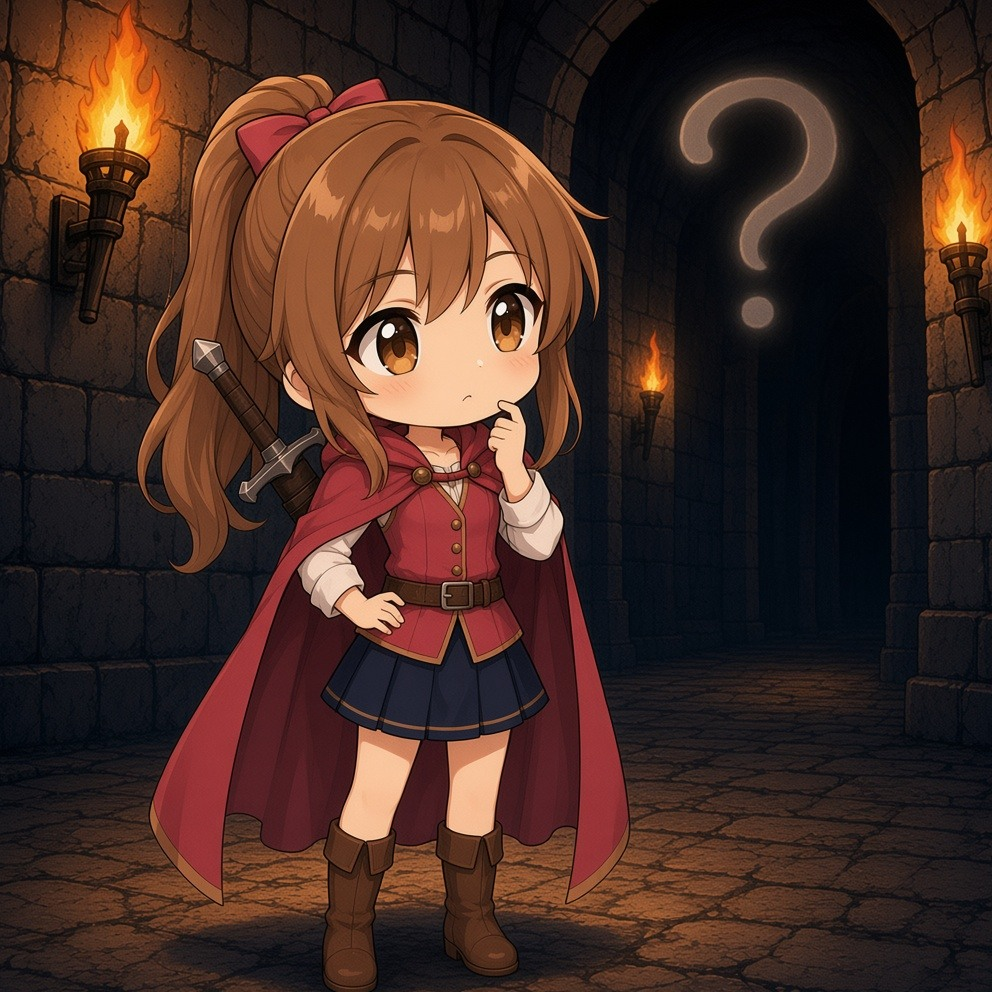
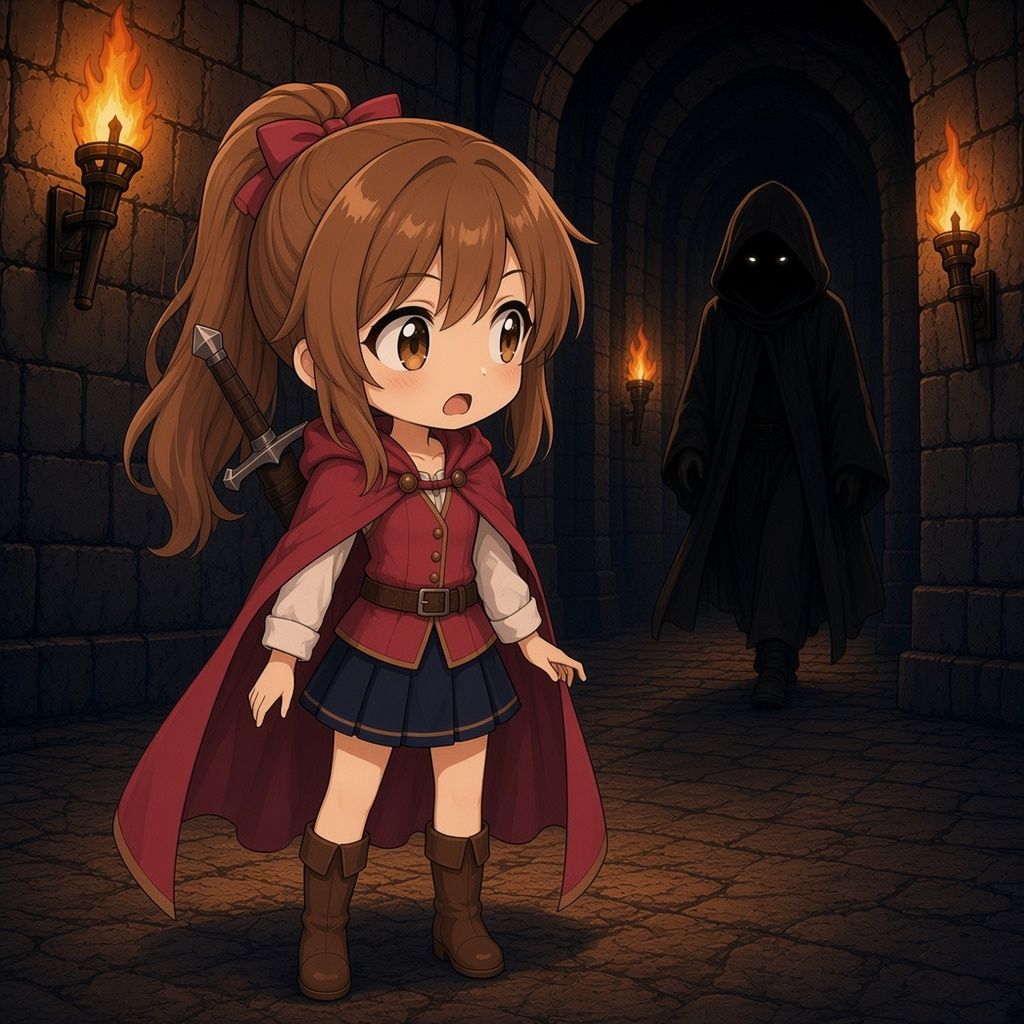
道：物乞い差し替え・再戦を迷子に・遭遇を更新

diff --git a/index.html b/index.html
@@ -8188,11 +8188,11 @@
             <div class="ref-grid">
               ${sheetFig("path-search.jpg?v=4", "探索")}
               ${sheetFig("path-fight.jpg?v=3", "連戦", "", "path-series")}
-              ${sheetFig("path-beggar.jpg?v=1", "物乞い")}
+              ${sheetFig("path-beggar.jpg?v=2", "物乞い")}
               ${sheetFig("path-shop.jpg?v=4", "お店")}
               ${sheetFig("path-rest.jpg?v=1", "休憩")}
-              ${sheetFig("path-rematch.jpg?v=1", "再戦")}
-              ${sheetFig("path-unknown.jpg?v=3", "遭遇")}
+              ${sheetFig("path-lost.jpg?v=1", "迷子")}
+              ${sheetFig("path-unknown.jpg?v=4", "遭遇")}
             </div>
             <h3>道のあとのイベント（画像置き場）</h3>
             <p class="album-meta">道を選んだあとに出る出来事の絵。未作成は点線の枠。お店は既存の商人絵</p>
@@ -8202,7 +8202,7 @@
               ${sheetSlot("物乞い", "カード廃棄", "span-2", "land")}
               ${sheetFig("shop-merchant.jpg?v=1", "お店", "land-ref", "span-2")}
               ${sheetSlot("休憩", "最大HPの30%回復", "span-2", "land")}
-              ${sheetSlot("再戦", "同じ敵・Fは進まない", "span-2", "land")}
+              ${sheetSlot("迷子", "効果は未定", "span-2", "land")}
               ${sheetSlot("遭遇", "だれかと会う", "span-2", "land")}
               ${sheetSlot("ジョブ", "階層イベント", "span-2", "land")}
             </div>
@@ -8983,7 +8983,7 @@
       shop: { name: "お店", text: "★で買い物。カード2つと装備2つ。", image: "path-shop.jpg?v=4" },
       camp: { name: "キャンプ", text: "体力が全快する。あとはまっすぐ進むと同じ。" },
       search: { name: "探索", text: "カード、装備、アイテムのどれか。半分で戦闘。", image: "path-search.jpg?v=4" },
-      unknown: { name: "未知との遭遇", text: "左の2つ以外の出来事が起きる。戦闘もある。", image: "path-unknown.jpg?v=3" },
+      unknown: { name: "未知との遭遇", text: "左の2つ以外の出来事が起きる。戦闘もある。", image: "path-unknown.jpg?v=4" },
     };
     // 道の候補。左の2つはここから引き、右は常に「未知との遭遇」
     const PATH_POOL = ["straight", "shop", "search"];
